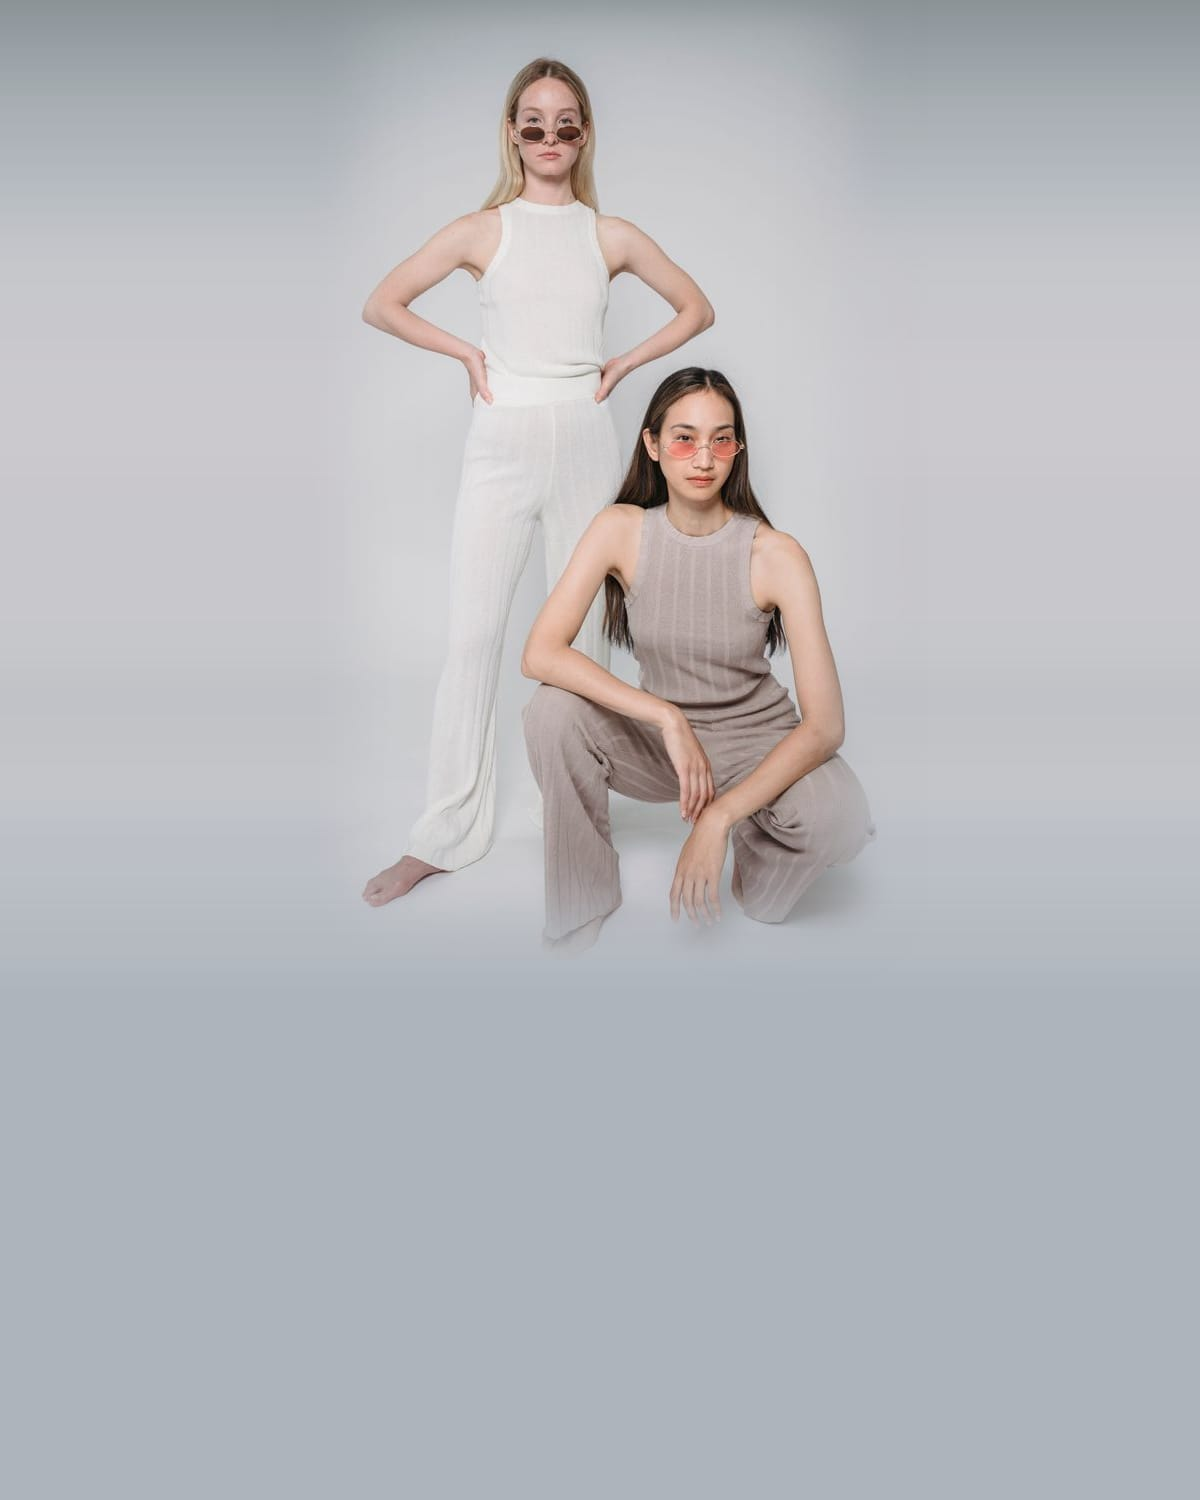
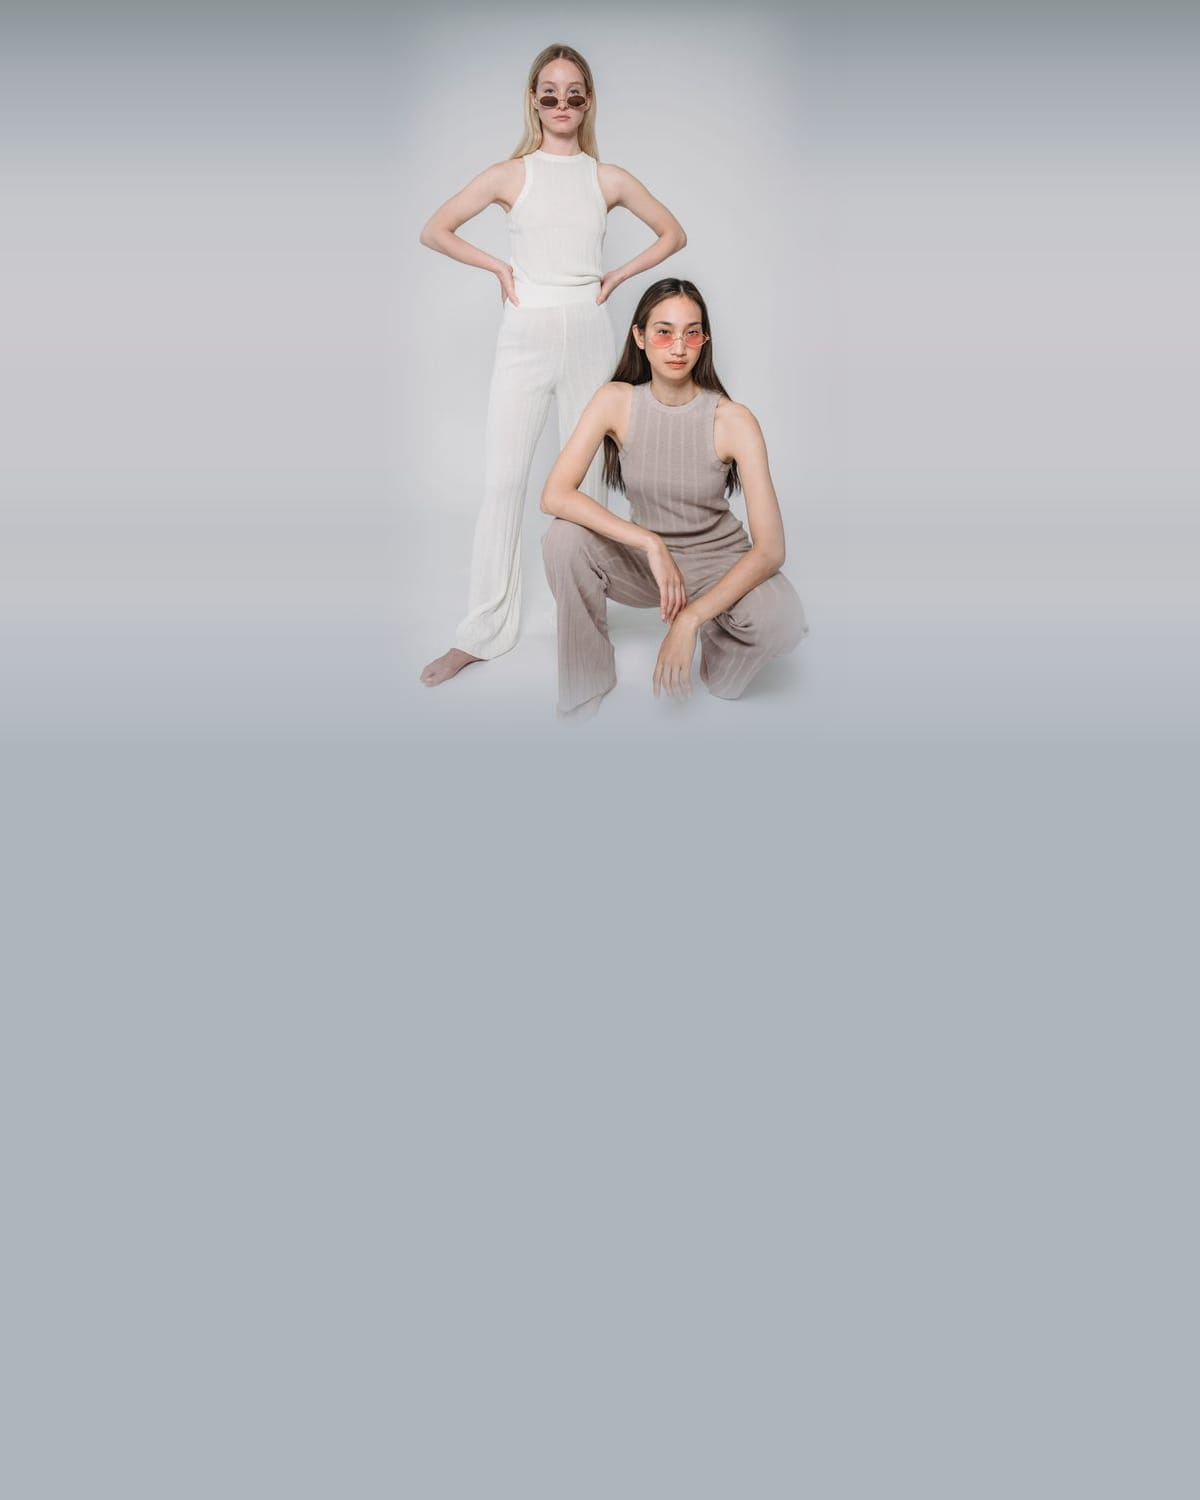
Make a fresh live store build and look complete

Changed region(s): [[0.2775, 0.0307, 0.7092, 0.6133]]

diff --git a/scripts/seed/generate.ts b/scripts/seed/generate.ts
@@ -234,6 +234,39 @@ export function buildStoreSettings(now: Date): StoreSettings {
   return settings;
 }
 
+/**
+ * The storefront's collections (linked from the menu and promotions). The
+ * seed fills them from the catalog; the live-store setup creates them empty.
+ */
+export function buildCollections(live: readonly Product[]): Collection[] {
+  return [
+    {
+      id: "the-linen-edit",
+      slug: "the-linen-edit",
+      name: "The Linen Edit",
+      description: "Breathable, easy pieces in washed linen for warm days and long evenings.",
+      productIds: live.filter((p) => p.attributes.material === "linen").map((p) => p.id),
+    },
+    {
+      id: "new-arrivals",
+      slug: "new-arrivals",
+      name: "New Arrivals",
+      description: "The latest additions to the collection.",
+      productIds: [...live]
+        .sort((a, b) => b.createdAt.getTime() - a.createdAt.getTime())
+        .slice(0, 24)
+        .map((p) => p.id),
+    },
+    {
+      id: "knitwear",
+      slug: "knitwear",
+      name: "Considered Knitwear",
+      description: "Merino, cashmere and lambswool sweaters made to be worn for years.",
+      productIds: live.filter((p) => p.categoryPath[1] === "sweaters").map((p) => p.id),
+    },
+  ].map((c) => collectionSchema.parse({ ...c, status: "live", seo: { title: c.name } }));
+}
+
 /** Builds the complete, schema-validated seed data set. Deterministic for a given seed number and date. */
 export function generateSeed(options: { seed?: number; now?: Date } = {}): SeedData {
   const rng = createRng(options.seed ?? 20261019);
@@ -648,32 +681,7 @@ export function generateSeed(options: { seed?: number; now?: Date } = {}): SeedD
 
   // ------------------------------------------------------ collections
   const live = products.filter((p) => p.status === "live");
-  const collections: Collection[] = [
-    {
-      id: "the-linen-edit",
-      slug: "the-linen-edit",
-      name: "The Linen Edit",
-      description: "Breathable, easy pieces in washed linen for warm days and long evenings.",
-      productIds: live.filter((p) => p.attributes.material === "linen").map((p) => p.id),
-    },
-    {
-      id: "new-arrivals",
-      slug: "new-arrivals",
-      name: "New Arrivals",
-      description: "The latest additions to the collection.",
-      productIds: [...live]
-        .sort((a, b) => b.createdAt.getTime() - a.createdAt.getTime())
-        .slice(0, 24)
-        .map((p) => p.id),
-    },
-    {
-      id: "knitwear",
-      slug: "knitwear",
-      name: "Considered Knitwear",
-      description: "Merino, cashmere and lambswool sweaters made to be worn for years.",
-      productIds: live.filter((p) => p.categoryPath[1] === "sweaters").map((p) => p.id),
-    },
-  ].map((c) => collectionSchema.parse({ ...c, status: "live", seo: { title: c.name } }));
+  const collections = buildCollections(live);
 
   // ----------------------------------------------------------- orders
   // Sample order history for order lookup, tracking and returns demos.

diff --git a/src/lib/env/schema.ts b/src/lib/env/schema.ts
@@ -35,23 +35,25 @@ export const serverEnvSchema = z
     NODE_ENV: z.enum(["development", "test", "production"]).default("development"),
     FIREBASE_PROJECT_ID: z.string().min(1),
     FIREBASE_STORAGE_BUCKET: z.string().min(1),
-    /** Base64-encoded service-account JSON. Required unless using emulators. */
-    FIREBASE_SERVICE_ACCOUNT: z
-      .string()
-      .min(1)
-      .transform((value, ctx) => {
-        try {
-          const json: unknown = JSON.parse(Buffer.from(value, "base64").toString("utf8"));
-          return serviceAccountSchema.parse(json);
-        } catch {
-          ctx.addIssue({
-            code: "custom",
-            message: "FIREBASE_SERVICE_ACCOUNT must be base64-encoded service-account JSON",
-          });
-          return z.NEVER;
-        }
-      })
-      .optional(),
+    /** Base64-encoded service-account JSON. Required unless using emulators; blank means unset. */
+    FIREBASE_SERVICE_ACCOUNT: z.preprocess(
+      (value) => (value === "" ? undefined : value),
+      z
+        .string()
+        .transform((value, ctx) => {
+          try {
+            const json: unknown = JSON.parse(Buffer.from(value, "base64").toString("utf8"));
+            return serviceAccountSchema.parse(json);
+          } catch {
+            ctx.addIssue({
+              code: "custom",
+              message: "FIREBASE_SERVICE_ACCOUNT must be base64-encoded service-account JSON",
+            });
+            return z.NEVER;
+          }
+        })
+        .optional(),
+    ),
     USE_FIREBASE_EMULATORS: z.stringbool().default(false),
     FIRESTORE_EMULATOR_HOST: z.string().min(1).optional(),
     FIREBASE_AUTH_EMULATOR_HOST: z.string().min(1).optional(),

diff --git a/scripts/bootstrap.ts b/scripts/bootstrap.ts
@@ -15,7 +15,7 @@ import { getAuth, type UserRecord } from "firebase-admin/auth";
 import { getFirestore, type DocumentReference } from "firebase-admin/firestore";
 import { passwordProblem } from "../src/lib/auth/password";
 import { userSchema } from "../src/lib/validation/customer";
-import { buildCategories, buildStoreSettings } from "./seed/generate";
+import { buildCategories, buildCollections, buildStoreSettings } from "./seed/generate";
 import { buildStarterPages } from "./seed/pages";
 
 loadEnvConfig(process.cwd());
@@ -191,6 +191,12 @@ async function main() {
     if (await createIfMissing(db.collection("pages").doc(p.slug), withoutId(p))) pages++;
   }
 
+  // Collections are linked from the menu and promotions; they start empty.
+  let collections = 0;
+  for (const c of buildCollections([])) {
+    if (await createIfMissing(db.collection("collections").doc(c.id), withoutId(c))) collections++;
+  }
+
   // Order numbers continue from here (the same starting point as the seed).
   await createIfMissing(db.collection("counters").doc("orders"), { value: 100000 });
 
@@ -201,6 +207,7 @@ Done.
   Store settings: ${settings ? "created" : "already set (kept)"}
   Categories:     ${categories} created (existing ones kept)
   Pages:          ${pages} created (existing ones kept)
+  Collections:    ${collections} created (existing ones kept)
   Admin:          ${adminEmail} ${admin}
 
 Sign in at /auth/signin, then open /admin.`);

diff --git a/src/components/plp/ProductListing.tsx b/src/components/plp/ProductListing.tsx
@@ -148,8 +148,19 @@ export async function ProductListing({
           </div>
         )}
 
-        {items.length === 0 && emptyScope && resolved.products.length === 0 ? (
-          <ErrorState title={emptyScope.title} description={emptyScope.description} />
+        {items.length === 0 && resolved.products.length === 0 ? (
+          // Nothing in this scope at all (not a filter result), e.g. a new collection.
+          <ErrorState
+            title={emptyScope?.title ?? "Nothing here yet"}
+            description={emptyScope?.description ?? "New pieces are on their way. Check back soon."}
+            actions={
+              emptyScope ? undefined : (
+                <ButtonLink href="/" variant="secondary">
+                  Continue shopping
+                </ButtonLink>
+              )
+            }
+          />
         ) : items.length === 0 ? (
           <ErrorState
             title="No products match these filters"

diff --git a/playwright.config.ts b/playwright.config.ts
@@ -1,4 +1,18 @@
+import { loadEnvConfig } from "@next/env";
 import { defineConfig, devices } from "@playwright/test";
+
+// E2E creates accounts, shops and orders. Load the env the server will use and
+// refuse to run unless it points at the emulators, never a live project.
+loadEnvConfig(process.cwd());
+if (
+  process.env.USE_FIREBASE_EMULATORS !== "true" ||
+  !process.env.FIREBASE_PROJECT_ID?.startsWith("demo-")
+) {
+  throw new Error(
+    "Refusing to run E2E against a real Firebase project. Point your env at the emulators " +
+      "(copy .env.example, or export its values) before running Playwright.",
+  );
+}
 
 const PORT = Number(process.env.PORT ?? 3000);
 const baseURL = `http://localhost:${PORT}`;

diff --git a/src/app/(storefront)/product/[slug]/page.tsx b/src/app/(storefront)/product/[slug]/page.tsx
@@ -23,7 +23,10 @@ import { getPublicShopById, returnSummary } from "@/lib/merchant/storefront";
 
 /** Prerenders every live product page. */
 export async function generateStaticParams() {
-  return (await listLiveProductSlugs()).map((slug) => ({ slug }));
+  const slugs = await listLiveProductSlugs();
+  // Cache Components needs at least one entry. A new store has no products yet;
+  // "texora" is a reserved name, never a product, so it renders the not-found page.
+  return (slugs.length ? slugs : ["texora"]).map((slug) => ({ slug }));
 }
 
 /** Title, description, canonical URL and share image for a product. */

diff --git a/src/app/(storefront)/stores/[slug]/page.tsx b/src/app/(storefront)/stores/[slug]/page.tsx
@@ -17,7 +17,9 @@ async function getStoreBySlug(slug: string): Promise<Store | null> {
 
 /** Prerenders a page for every open store. */
 export async function generateStaticParams() {
-  return (await getStores()).filter((s) => s.status !== "closed").map((s) => ({ slug: s.slug }));
+  const slugs = (await getStores()).filter((s) => s.status !== "closed").map((s) => s.slug);
+  // At least one entry is required; with no stores, "texora" renders the not-found page.
+  return (slugs.length ? slugs : ["texora"]).map((slug) => ({ slug }));
 }
 
 /** Title, description and canonical URL for a store. */

diff --git a/src/lib/env/schema.test.ts b/src/lib/env/schema.test.ts
@@ -109,6 +109,20 @@ describe("serverEnvSchema", () => {
     );
   });
 
+  it("treats a blank service account as unset", () => {
+    const env = parseEnv(
+      serverEnvSchema,
+      {
+        FIREBASE_PROJECT_ID: "demo-texora",
+        FIREBASE_STORAGE_BUCKET: "demo-texora.appspot.com",
+        ORDER_TOKEN_SECRET: "x".repeat(32),
+        FIREBASE_SERVICE_ACCOUNT: "",
+      },
+      "server",
+    );
+    expect(env.FIREBASE_SERVICE_ACCOUNT).toBeUndefined();
+  });
+
   it("rejects a malformed service account", () => {
     expect(() =>
       parseEnv(

diff --git a/scripts/stock-images.ts b/scripts/stock-images.ts
@@ -106,7 +106,8 @@ async function heroMobile(source: Buffer): Promise<Buffer> {
   const W = 1200;
   const H = 1500;
   const photo = sharp(source);
-  const ph = Math.round(H * 0.66);
+  // The copy starts about halfway down the phone hero, so the photo keeps to the top half.
+  const ph = Math.round(H * 0.5);
   const placed = await photo.clone().resize({ height: ph }).toBuffer();
   const { width: pw = 600 } = await sharp(placed).metadata();
   const soft = await sharp(placed)

diff --git a/README.md b/README.md
@@ -47,6 +47,21 @@ A Husky pre-commit hook runs ESLint and Prettier on staged files.
 
 `build`, `verify` and `e2e` need the emulators running and seeded: catalog pages prerender from Firestore.
 
+## Live Firebase project (staging)
+
+Everyday development uses the emulators. To test against a real Firebase project:
+
+1. In the Firebase console, start **Authentication** (enable Email/Password), **Firestore** and **Storage** (production mode).
+2. Put the project's web config and a base64 service-account key in `.env.local` (see `.env.example`), with `USE_FIREBASE_EMULATORS=false` and `NEXT_PUBLIC_USE_FIREBASE_EMULATORS=false`. Keep a copy of your emulator `.env.local` to switch back.
+3. Deploy the security rules and indexes before anything connects:
+   `npx firebase deploy --only firestore:rules,firestore:indexes,storage --project <project-id>`
+4. Run the one-time setup: `npm run bootstrap -- --project <project-id> --admin-email you@example.com --name "Your Name"`. It creates the store settings, categories, collections, starter pages (with royalty-free photography, see [`docs/IMAGE_CREDITS.md`](docs/IMAGE_CREDITS.md)) and your super-admin account (password typed at a hidden prompt). It never overwrites existing data and adds no demo customers, orders or products.
+5. `npm run build && npm run start`, then sign in at `/auth/signin` and open `/admin`.
+
+Set `STAGING=true` for any test deployment: every response carries `X-Robots-Tag: noindex` and `robots.txt` blocks crawlers, and without `RESEND_API_KEY` emails go to the `emailOutbox` collection (Firebase console → Firestore) instead of failing the start-up check. The public launch needs `RESEND_API_KEY` and `STAGING` removed.
+
+`npm run seed` and Playwright refuse to run against a non-`demo-` project, and the integration and rules tests always use their own demo projects, so a live `.env.local` can't be filled with test data by accident.
+
 ## Merchant portal
 
 Independent shops sell on Texora through the merchant portal. Shoppers find it from **Sell on Texora** in the footer (`/merchants`).
